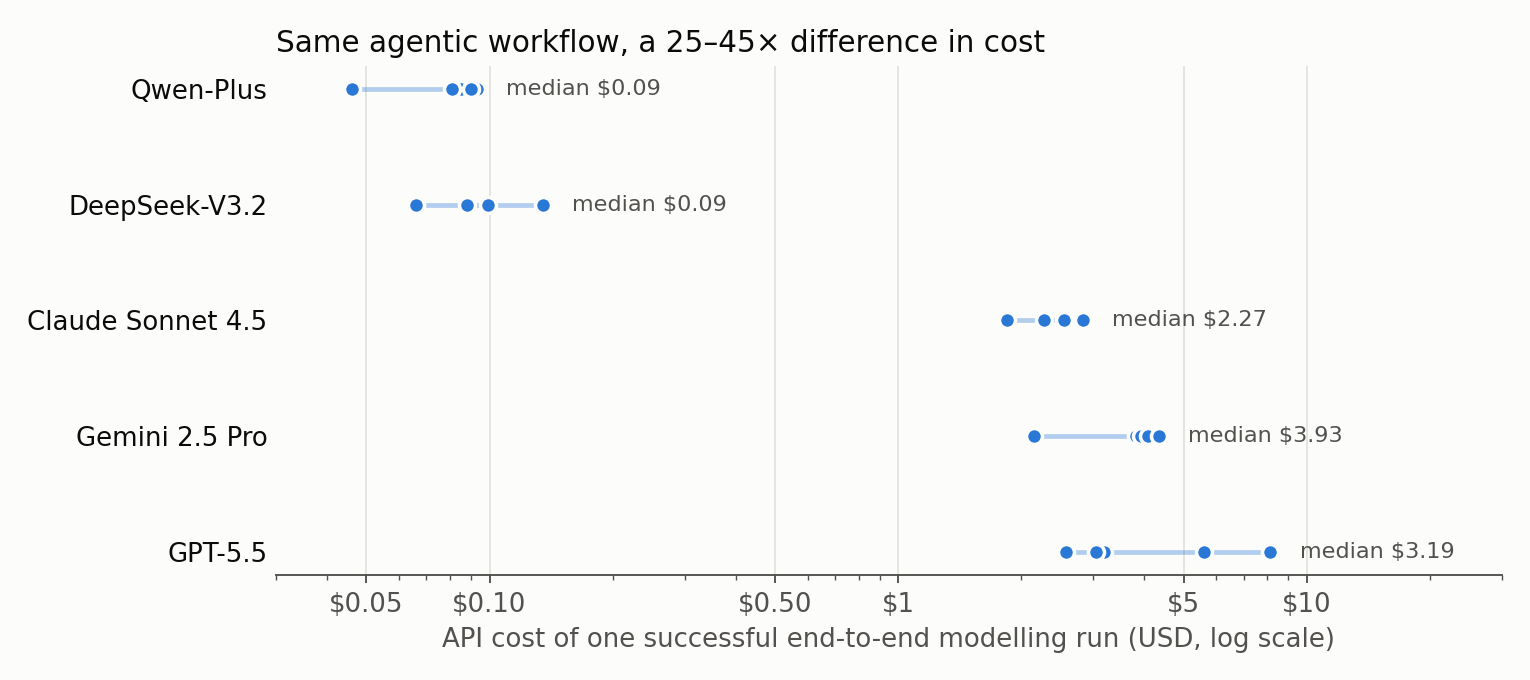
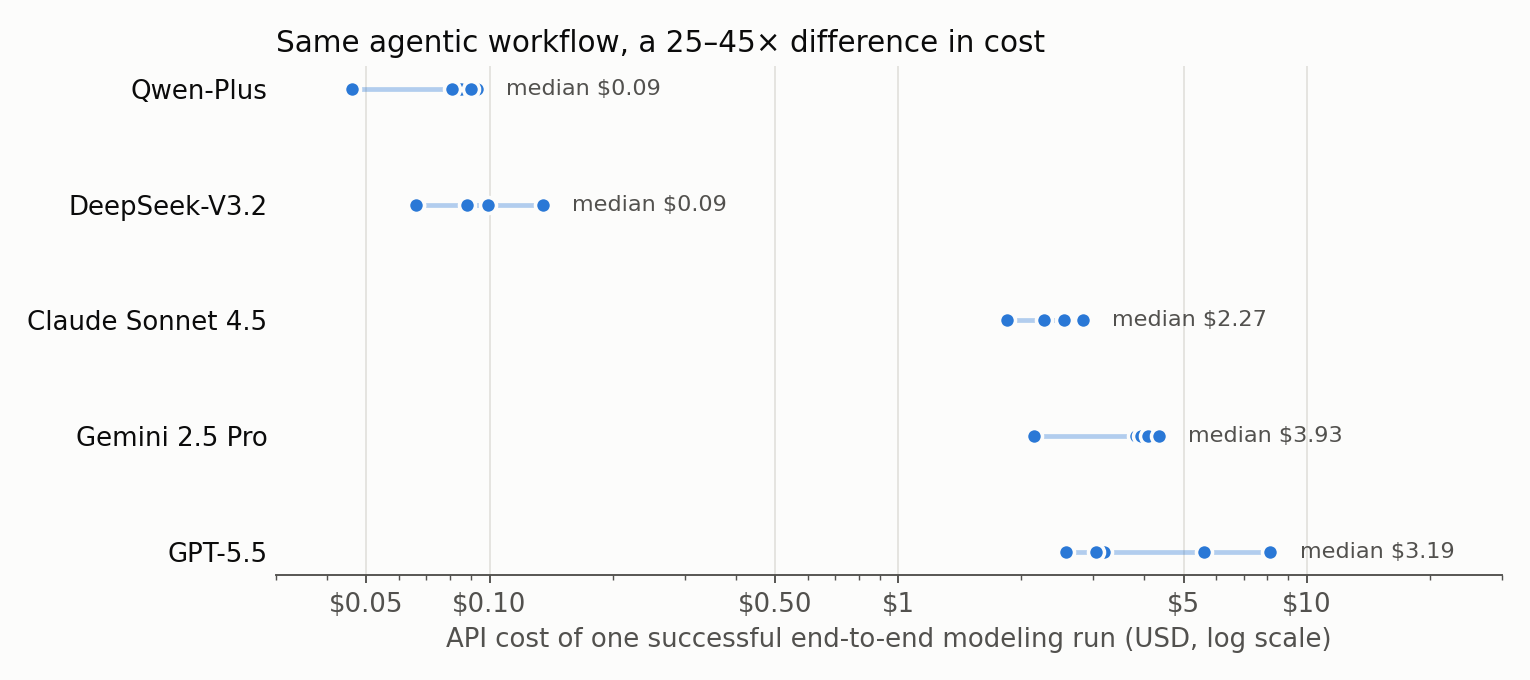
Blog: American spelling and no space before °C in all posts

Changed region(s): [[0.2765, 0.9265, 0.8908, 0.9574]]

diff --git a/scripts/blog/2026-10-19-amoc-rate.py b/scripts/blog/2026-10-19-amoc-rate.py
@@ -17,7 +17,7 @@ fig, ax = plt.subplots(figsize=(9, 5), facecolor=surf); ax.set_facecolor(surf)
 ax.plot([6.12, 6.12], [1.4, 8.0], color=ink2, lw=1.2)
 ax.scatter([6.12, 6.12], [1.4, 8.0], marker="_", s=90, color=ink2, linewidths=1.2)
 ax.scatter([6.12], [4.0], marker="_", s=260, color=ink2, linewidths=2.5, zorder=3)
-ax.text(6.0, 4.0, "commonly cited\nthreshold +4 °C\n(range 1.4–8 °C)", ha="right", va="center",
+ax.text(6.0, 4.0, "commonly cited\nthreshold +4°C\n(range 1.4–8°C)", ha="right", va="center",
         fontsize=9.5, color=ink2)
 
 # today's rate of CO2 rise
@@ -27,13 +27,13 @@ ax.text(2.68, 7.75, "today: +2.6 ppm/yr\n(Mauna Loa, 2015–2025)", fontsize=9.5
 # slow ramp: no collapse up to +5.5 C
 ax.annotate("", xy=(0.5, 5.6), xytext=(0.5, 0.15),
             arrowprops=dict(arrowstyle="-|>", color=blue, lw=3, mutation_scale=18))
-ax.text(0.68, 5.35, "+0.5 ppm/yr:\nAMOC stays strong\nup to +5.5 °C", color=blue, fontsize=10, va="top")
+ax.text(0.68, 5.35, "+0.5 ppm/yr:\nAMOC stays strong\nup to +5.5°C", color=blue, fontsize=10, va="top")
 
 # fast ramps: collapse onset at about +2 C
 for x, y in [(2.5, 2.02), (5.0, 1.99)]:
     ax.plot([x, x], [0.15, y], color=orange, lw=3, solid_capstyle="butt")
     ax.scatter([x], [y], marker="X", s=150, color=orange, edgecolor=surf, linewidth=1.2, zorder=4)
-ax.text(3.55, 2.55, "+2.5 and +5.0 ppm/yr:\ncollapse begins at about +2 °C", color=orange,
+ax.text(3.55, 2.55, "+2.5 and +5.0 ppm/yr:\ncollapse begins at about +2°C", color=orange,
         fontsize=10, ha="center")
 
 ax.set_xlim(0, 6.6); ax.set_ylim(0, 8.3)

diff --git a/scripts/blog/2026-10-18-agent-cost.py b/scripts/blog/2026-10-18-agent-cost.py
@@ -5,7 +5,7 @@
 import os, numpy as np, matplotlib
 matplotlib.use("Agg")
 import matplotlib.pyplot as plt
-cost = {  # USD per successful end-to-end modelling run (5 task groups)
+cost = {  # USD per successful end-to-end modeling run (5 task groups)
  "Qwen-Plus":         [0.085, 0.081, 0.093, 0.046, 0.090],
  "DeepSeek-V3.2":     [0.099, 0.066, 0.088, 0.066, 0.135],
  "Claude Sonnet 4.5": [1.821, 2.833, 1.842, 2.269, 2.550],
@@ -29,7 +29,7 @@ ax.set_yticks(range(len(names))); ax.set_yticklabels(names[::-1])
 ax.grid(axis="x", color=grid, lw=0.8); ax.set_axisbelow(True)
 for sp in ("top", "right", "left"): ax.spines[sp].set_visible(False)
 ax.tick_params(axis="y", length=0)
-ax.set_xlabel("API cost of one successful end-to-end modelling run (USD, log scale)", color=ink2)
+ax.set_xlabel("API cost of one successful end-to-end modeling run (USD, log scale)", color=ink2)
 ax.set_title("Same agentic workflow, a 25–45× difference in cost", loc="left", color=ink, fontsize=12.5)
 fig.tight_layout()
 os.makedirs("assets/img/blog", exist_ok=True)

diff --git a/scripts/blog/2026-10-19-amoc-timescales.py b/scripts/blog/2026-10-19-amoc-timescales.py
@@ -52,10 +52,10 @@ ax.text(2101, ys[1], "2057 (90% range 2025–2095), disputed because of data unc
         va="center", fontsize=9.5, color=ink2, bbox=BOX)
 
 collapse(ys[2], 2060, orange)
-ax.text(2062, ys[2] + 0.36, "onset ≈2060 at +2.8 °C → decline over ~a century → weak for centuries",
+ax.text(2062, ys[2] + 0.36, "onset ≈2060 at +2.8°C → decline over ~a century → weak for centuries",
         fontsize=9.3, color=orange, bbox=BOX)
 collapse(ys[3], 2110, orange)
-ax.text(2112, ys[3] + 0.36, "onset ≈2110 at +2.2 °C → weak to 2500 and beyond",
+ax.text(2112, ys[3] + 0.36, "onset ≈2110 at +2.2°C → weak to 2500 and beyond",
         fontsize=9.3, color=orange, bbox=BOX)
 bar(ys[4], 2006, 2500, green, alpha=0.45)
 ax.text(2112, ys[4] + 0.36, "weakens, then recovers", fontsize=9.3, color=green, bbox=BOX)

diff --git a/scripts/blog/2026-10-19-choice-odds.py b/scripts/blog/2026-10-19-choice-odds.py
@@ -2,7 +2,7 @@
 # Data: odds ratios (95% confidence intervals) for choosing the pro-climate option, as reported in the
 # Results of Wyss, Guizar Rosales et al. (2026), Nature Climate Change, doi:10.1038/s41558-026-02765-z.
 # Rows 1-5 come from the models that add subjective attribution (Supplementary Table 17 of the paper;
-# attribution is mean-centred, so the exposure term is its effect at average attribution).
+# attribution is mean-centered, so the exposure term is its effect at average attribution).
 # Row 6 comes from a separate exploratory model with self-reported experience. Plotted by Daeha Kim.
 # Run from the repository root: python scripts/blog/2026-10-19-choice-odds.py
 import os, matplotlib

diff --git a/_posts/2026-10-19-amoc-diagnosis.md b/_posts/2026-10-19-amoc-diagnosis.md
@@ -8,13 +8,13 @@ categories: paper-highlights
 related_posts: false
 ---
 
-Every few months, a headline warns that the Gulf Stream is about to "shut down." Many readers picture the film _The Day After Tomorrow_, where New York freezes in a week. The real science is less cinematic but no less serious. Two recent papers from the Utrecht group of Henk Dijkstra and René van Westen give a good picture of where things stand. The first is a review of how likely a collapse is this century (Dijkstra & van Westen 2026). The second is a new modelling study showing that the _speed_ of warming may matter more than its final level (van Westen, Börner & Dijkstra 2026).
+Every few months, a headline warns that the Gulf Stream is about to "shut down." Many readers picture the film _The Day After Tomorrow_, where New York freezes in a week. The real science is less cinematic but no less serious. Two recent papers from the Utrecht group of Henk Dijkstra and René van Westen give a good picture of where things stand. The first is a review of how likely a collapse is this century (Dijkstra & van Westen 2026). The second is a new modeling study showing that the _speed_ of warming may matter more than its final level (van Westen, Börner & Dijkstra 2026).
 
 In this post I read the two papers as a diagnosis: what we know about the patient now, what could go wrong, and above all **how fast**. When students ask me about this topic, the question behind the question is usually: _is this something sudden, or something people would only feel slowly over a long time?_ The short answer is that it is both, on different clocks. The rest of this post explains what that means.
 
 ## What the AMOC is, and why a hydrologist should care
 
-The Atlantic Meridional Overturning Circulation (AMOC) is the large loop of the Atlantic Ocean in which warm, salty surface water flows north, gives up its heat to the atmosphere, becomes dense enough to sink in the northern North Atlantic, and returns south at depth. Its strength is measured in sverdrups (1 Sv = one million cubic metres per second). At about 17 Sv, it moves roughly fifteen times the combined discharge of all the world's rivers. At 26°N it carries about 1.5 petawatts of heat northward, which is a large part of the reason north-western Europe is so mild for its latitude.
+The Atlantic Meridional Overturning Circulation (AMOC) is the large loop of the Atlantic Ocean in which warm, salty surface water flows north, gives up its heat to the atmosphere, becomes dense enough to sink in the northern North Atlantic, and returns south at depth. Its strength is measured in sverdrups (1 Sv = one million cubic meters per second). At about 17 Sv, it moves roughly fifteen times the combined discharge of all the world's rivers. At 26°N it carries about 1.5 petawatts of heat northward, which is a large part of the reason north-western Europe is so mild for its latitude.
 
 The reason the AMOC can "tip" is a feedback any water engineer will recognize as a positive feedback loop. The overturning brings salt north. If the northern Atlantic becomes fresher (from more rain, river runoff, sea-ice melt or Greenland meltwater), the surface water becomes lighter, sinks less, and the weaker circulation delivers less salt. This freshens the surface further. Beyond a critical point, the loop can run away and the circulation settles into a much weaker state. Physicists call this the _salt-advection feedback_, and it is why the AMOC can have two stable states rather than one.
 
@@ -43,30 +43,30 @@ The review makes one more point that engineers will appreciate: because the impa
 
 ## Diagnosis 3: it is the speed, not only the level
 
-The commonly cited warming threshold for an AMOC collapse is about +4 °C, with a range of 1.4–8 °C. The new _Nature Climate Change_ paper argues that this number may not mean much, because the AMOC's stability depends on **how fast** the climate is forced, not on a fixed temperature.
+The commonly cited warming threshold for an AMOC collapse is about +4°C, with a range of 1.4–8°C. The new _Nature Climate Change_ paper argues that this number may not mean much, because the AMOC's stability depends on **how fast** the climate is forced, not on a fixed temperature.
 
 The authors increased CO₂ in the CESM linearly at three rates, all the way to four times the pre-industrial level:
 
-- at **+0.5 ppm per year**, the AMOC stayed strong even when global warming reached **+5.5 °C**;
-- at **+2.5 and +5.0 ppm per year**, it began to collapse at about **+2.0 °C**.
+- at **+0.5 ppm per year**, the AMOC stayed strong even when global warming reached **+5.5°C**;
+- at **+2.5 and +5.0 ppm per year**, it began to collapse at about **+2.0°C**.
 
 For comparison, CO₂ at Mauna Loa rose by about **+2.6 ppm per year** on average in 2015–2025. In this model, today's rate falls on the wrong side of the line.
 
 ![CO2 ramp rate versus warming at AMOC collapse onset in CESM](/assets/img/blog/2026-10-19-amoc-rate.png){: style="width: 100%; height: auto;" data-zoomable="" }
 
-_**Figure 1.** Global warming at which the AMOC began to collapse in three CO₂-ramp experiments with one climate model (CESM, with a freshwater bias correction of 0.45 Sv). Under the slowest ramp the AMOC did not collapse, even at +5.5 °C. The dashed line marks the observed rate of CO₂ increase. The bar on the right is the commonly cited warming threshold and its range. Figure by Daeha Kim, drawn from numbers reported in van Westen, Börner & Dijkstra (2026)._
+_**Figure 1.** Global warming at which the AMOC began to collapse in three CO₂-ramp experiments with one climate model (CESM, with a freshwater bias correction of 0.45 Sv). Under the slowest ramp the AMOC did not collapse, even at +5.5°C. The dashed line marks the observed rate of CO₂ increase. The bar on the right is the commonly cited warming threshold and its range. Figure by Daeha Kim, drawn from numbers reported in van Westen, Börner & Dijkstra (2026)._
 
 Why should the rate matter? When the forcing is slow, the deep ocean has time to adjust together with the surface. In a warmer climate, evaporation over the Atlantic increases and there is less North Atlantic sea ice, so less meltwater is released into the sinking region. Both effects make the Atlantic saltier and help keep the circulation going. When the forcing is fast, the surface water becomes lighter much faster than the interior can follow, the pathways by which water sinks shut down, and the circulation collapses before these stabilizing effects can act.
 
 Hydrologists know this logic well. The same storm total can produce no runoff when it falls as gentle rain over a week, and a flood when it falls in an hour, because infiltration cannot keep up. It is the intensity, not only the depth, that decides.
 
-The same model under standard emission scenarios tells a consistent story. Under a low-emission pathway (RCP2.6) the AMOC weakens and then recovers. Under moderate emissions (RCP4.5) collapse begins around 2110, at +2.2 °C. Under high emissions (RCP8.5) it begins around 2060, at +2.8 °C. The authors combine these results with CMIP6 analyses and estimate a critical warming rate of about **0.29 °C per decade**. This lies within the 0.27–0.36 °C per decade projected for the coming decades. Their conclusion is direct: cutting emissions **quickly** is what reduces the risk.
+The same model under standard emission scenarios tells a consistent story. Under a low-emission pathway (RCP2.6) the AMOC weakens and then recovers. Under moderate emissions (RCP4.5) collapse begins around 2110, at +2.2°C. Under high emissions (RCP8.5) it begins around 2060, at +2.8°C. The authors combine these results with CMIP6 analyses and estimate a critical warming rate of about **0.29°C per decade**. This lies within the 0.27–0.36°C per decade projected for the coming decades. Their conclusion is direct: cutting emissions **quickly** is what reduces the risk.
 
 ## What a collapse would do
 
 The cleanest way to study the impacts is to collapse the AMOC in a model run without global warming, so that the AMOC signal is not mixed with everything else. In the CESM, the results include:
 
-- **North-western Europe gets much colder.** Sea-surface temperatures near western Europe drop by as much as 10 °C. Over a broad region, annual-mean air temperature falls by **more than 1 °C per decade**, and several European cities cool by 5–15 °C. Arctic sea ice in March extends as far south as about 50°N, and the extra ice reflects more sunlight, amplifying the cooling.
+- **North-western Europe gets much colder.** Sea-surface temperatures near western Europe drop by as much as 10°C. Over a broad region, annual-mean air temperature falls by **more than 1°C per decade**, and several European cities cool by 5–15°C. Arctic sea ice in March extends as far south as about 50°N, and the extra ice reflects more sunlight, amplifying the cooling.
 - **The Southern Hemisphere warms.** Less heat is carried north, so the two hemispheres move in opposite directions (the "bipolar seesaw").
 - **Sea level rises along Atlantic coasts.** A weaker circulation changes the slope of the sea surface, and some coastal regions see more than **70 cm** of additional dynamic sea-level rise, on top of the global rise from warming.
 - **Tropical rain belts shift south.** The Intertropical Convergence Zone (ITCZ) moves southward and the Northern Hemisphere Hadley cell strengthens. In the Amazon, the dry season and the wet season trade places.
@@ -81,21 +81,21 @@ Here is my answer to the students' question. An AMOC collapse runs on three cloc
 
 ![Timescales of a possible AMOC collapse](/assets/img/blog/2026-10-19-amoc-timescales.png){: style="width: 100%; height: auto;" data-zoomable="" }
 
-_**Figure 2.** Timescales involved in a possible AMOC collapse. The grey rows show the short observational record and a contested statistical estimate of collapse onset. The coloured rows show one climate model (CESM, bias-corrected) under three emission scenarios: triangles mark collapse onset, the fading bars show the decline over about a century, and the solid bars show the persistent weak state. This is a schematic of published numbers, not a forecast. Figure by Daeha Kim, based on Dijkstra & van Westen (2026), van Westen, Börner & Dijkstra (2026) and Ditlevsen & Ditlevsen (2023)._
+_**Figure 2.** Timescales involved in a possible AMOC collapse. The gray rows show the short observational record and a contested statistical estimate of collapse onset. The colored rows show one climate model (CESM, bias-corrected) under three emission scenarios: triangles mark collapse onset, the fading bars show the decline over about a century, and the solid bars show the persistent weak state. This is a schematic of published numbers, not a forecast. Figure by Daeha Kim, based on Dijkstra & van Westen (2026), van Westen, Börner & Dijkstra (2026) and Ditlevsen & Ditlevsen (2023)._
 
-**Clock 1: the trigger (now to the next few decades).** Whether a collapse starts is decided by what we emit, and how fast, over the next few decades. In the one model that has been pushed hardest, onset comes in the second half of this century or early next. The IPCC considers an abrupt collapse before 2100 unlikely, but that judgement rests on models that are probably too stable. Nobody can yet give a reliable probability.
+**Clock 1: the trigger (now to the next few decades).** Whether a collapse starts is decided by what we emit, and how fast, over the next few decades. In the one model that has been pushed hardest, onset comes in the second half of this century or early next. The IPCC considers an abrupt collapse before 2100 unlikely, but that judgment rests on models that are probably too stable. Nobody can yet give a reliable probability.
 
-**Clock 2: the fall (about a century).** Once a collapse begins, the circulation declines over roughly **a hundred years**. That rules out the _Day After Tomorrow_ picture. Nothing freezes overnight, and from one year to the next the change would be smaller than ordinary weather variability. Yet by the standards of climate it is fast. A cooling trend of more than 1 °C per decade in north-western Europe is about four times faster than today's global warming, and in the opposite direction. People would not feel a shock, but over a working career they would see a clear trend, much as we see global warming today. A child born this year could live through most of the decline.
+**Clock 2: the fall (about a century).** Once a collapse begins, the circulation declines over roughly **a hundred years**. That rules out the _Day After Tomorrow_ picture. Nothing freezes overnight, and from one year to the next the change would be smaller than ordinary weather variability. Yet by the standards of climate it is fast. A cooling trend of more than 1°C per decade in north-western Europe is about four times faster than today's global warming, and in the opposite direction. People would not feel a shock, but over a working career they would see a clear trend, much as we see global warming today. A child born this year could live through most of the decline.
 
 **Clock 3: the memory (centuries).** A collapsed AMOC does not come back when emissions stop. In the CESM runs, the AMOC is still very weak in 2500, and the authors note that even if it eventually recovered, its impacts would last for at least about 300 years. Conceptual models suggest an asymmetry: a collapse can be set off relatively quickly, but recovery needs the North Atlantic to be slowly made saltier again. On any human timescale, a collapse would be permanent.
 
-There is one more, uncomfortable timing problem. Because the direct record is short and natural variability is large, we would probably recognize a collapse only after it was well under way, and by then it would already be locked in. The decision has to be made before the evidence is conclusive. It is the same lesson as in [my earlier post on overshooting 1.5 °C]({% post_url 2026-10-17-approaching-1p5-from-above %}): the consequences arrive long after the causes, so waiting for certainty is itself a choice.
+There is one more, uncomfortable timing problem. Because the direct record is short and natural variability is large, we would probably recognize a collapse only after it was well under way, and by then it would already be locked in. The decision has to be made before the evidence is conclusive. It is the same lesson as in [my earlier post on overshooting 1.5°C]({% post_url 2026-10-17-approaching-1p5-from-above %}): the consequences arrive long after the causes, so waiting for certainty is itself a choice.
 
 ## Bottom line
 
 - **Current state:** the AMOC is about 17 Sv, with no clear sign that a collapse has begun, but only about 20 years of direct data and conflicting indirect evidence.
 - **Risk:** probably underestimated, because the models used by the IPCC tend to make the AMOC too stable. No reliable probability exists, and even small probabilities matter.
-- **Main control:** the _rate_ of warming. In one model, the current rate of CO₂ increase is fast enough to cause a collapse at about +2 °C, while a much slower rise does not cause one even at +5.5 °C.
+- **Main control:** the _rate_ of warming. In one model, the current rate of CO₂ increase is fast enough to cause a collapse at about +2°C, while a much slower rise does not cause one even at +5.5°C.
 - **Timescale:** decades to the trigger, about a century to fall, centuries to recover. A collapse would be gradual enough to feel like a trend, fast enough to outrun adaptation, and lasting enough to be permanent for us.
 
 **Questions to think about**
@@ -106,7 +106,7 @@ There is one more, uncomfortable timing problem. Because the direct record is sh
 
 ---
 
-**한 줄 요약 (Korean summary).** 대서양 자오선 순환(AMOC)은 현재 약 17 Sv로, 붕괴가 시작되었다는 뚜렷한 관측 증거는 없지만 직접 관측 기록은 20년 남짓에 불과하다. IPCC는 2100년 이전의 급격한 붕괴 가능성을 낮게 보지만, 기후모델들은 AMOC를 실제보다 안정적으로 모의하는 경향이 있어 위험이 과소평가되었을 가능성이 크다. 최신 연구에 따르면 붕괴 여부는 도달하는 온도보다 온난화 속도에 좌우된다: 한 모델에서 CO₂가 연 0.5 ppm씩 오르면 +5.5 °C에서도 버텼지만, 연 2.5 ppm 이상(현재는 연 2.6 ppm)에서는 약 +2 °C에서 붕괴가 시작되었다. 붕괴하면 북서유럽이 10년에 1 °C 이상 냉각되고, 대서양 연안 해수면이 최대 70 cm 이상 추가로 오르며, 열대 강우대가 남쪽으로 이동해 아마존의 건기와 우기가 뒤바뀐다. 시간 규모로 보면 붕괴가 시작될지는 향후 수십 년의 배출이 결정하고, 붕괴 자체는 약 100년에 걸쳐 진행되며(하룻밤에 일어나는 일은 아니지만 한 사람의 일생 동안 분명히 느낄 만큼 빠르다), 그 영향은 수백 년간 지속된다. 관측으로 확인될 즈음에는 이미 되돌리기 어려울 가능성이 크므로, 확실한 증거를 기다리기보다 배출을 빨리 줄이는 것이 핵심이다.
+**한 줄 요약 (Korean summary).** 대서양 자오선 순환(AMOC)은 현재 약 17 Sv로, 붕괴가 시작되었다는 뚜렷한 관측 증거는 없지만 직접 관측 기록은 20년 남짓에 불과하다. IPCC는 2100년 이전의 급격한 붕괴 가능성을 낮게 보지만, 기후모델들은 AMOC를 실제보다 안정적으로 모의하는 경향이 있어 위험이 과소평가되었을 가능성이 크다. 최신 연구에 따르면 붕괴 여부는 도달하는 온도보다 온난화 속도에 좌우된다: 한 모델에서 CO₂가 연 0.5 ppm씩 오르면 +5.5°C에서도 버텼지만, 연 2.5 ppm 이상(현재는 연 2.6 ppm)에서는 약 +2°C에서 붕괴가 시작되었다. 붕괴하면 북서유럽이 10년에 1°C 이상 냉각되고, 대서양 연안 해수면이 최대 70 cm 이상 추가로 오르며, 열대 강우대가 남쪽으로 이동해 아마존의 건기와 우기가 뒤바뀐다. 시간 규모로 보면 붕괴가 시작될지는 향후 수십 년의 배출이 결정하고, 붕괴 자체는 약 100년에 걸쳐 진행되며(하룻밤에 일어나는 일은 아니지만 한 사람의 일생 동안 분명히 느낄 만큼 빠르다), 그 영향은 수백 년간 지속된다. 관측으로 확인될 즈음에는 이미 되돌리기 어려울 가능성이 크므로, 확실한 증거를 기다리기보다 배출을 빨리 줄이는 것이 핵심이다.
 
 ---
 

diff --git a/_posts/2026-10-18-from-chatbot-to-coworker.md b/_posts/2026-10-18-from-chatbot-to-coworker.md
@@ -3,7 +3,7 @@ layout: post
 title: "From chatbot to coworker: three years of LLMs in hydrology"
 date: 2026-10-18 09:00:00
 description: "Re-reading a 2023 editorial on ChatGPT in hydrology next to two new papers and a book on AI: what LLMs could not do then, what agents can do now, and why most research has not switched yet."
-tags: llm ai-agents hydrologic-modelling calibration education
+tags: llm ai-agents hydrologic-modeling calibration education
 categories: notes
 related_posts: false
 ---
@@ -32,7 +32,7 @@ The figure below summarizes how the role of the LLM has shifted across the three
 
 ![Three panels showing the role of the LLM in 2023 (writer), 2025 (decision-maker inside a calibration loop) and 2026 (orchestrator of an agentic workflow)](/assets/img/blog/2026-10-18-llm-roles.png){: style="width: 100%; height: auto;" data-zoomable="" }
 
-_**Figure 1.** How the role of the LLM changed across three studies. In 2023 the human did all the running and checking. In the GRL study, the LLM proposed parameters inside a loop built by the researchers. In the Journal of Hydrology study, agents planned, coded, ran and debugged entire modelling workflows within an expert-designed process. Original schematic by Daeha Kim, based on Foroumandi et al. (2023), Zhu et al. (2026) and Li et al. (2026)._
+_**Figure 1.** How the role of the LLM changed across three studies. In 2023 the human did all the running and checking. In the GRL study, the LLM proposed parameters inside a loop built by the researchers. In the Journal of Hydrology study, agents planned, coded, ran and debugged entire modeling workflows within an expert-designed process. Original schematic by Daeha Kim, based on Foroumandi et al. (2023), Zhu et al. (2026) and Li et al. (2026)._
 
 ## 2025: the LLM inside the calibration loop
 
@@ -46,13 +46,13 @@ Li et al. (2026, _Journal of Hydrology_), submitted in May 2026, used the next g
 
 Three findings stand out.
 
-- **It works most of the time.** Across 125 modelling tasks with five different LLMs, 92.8% of runs succeeded. On 531 CAMELS basins, the agent-built models reached a median NSE of 0.58 for basin-by-basin LSTMs (close to the 0.61 of the calibrated SAC-SMA benchmark) and 0.73 for a single LSTM trained on all basins, which is in line with published LSTM benchmarks.
+- **It works most of the time.** Across 125 modeling tasks with five different LLMs, 92.8% of runs succeeded. On 531 CAMELS basins, the agent-built models reached a median NSE of 0.58 for basin-by-basin LSTMs (close to the 0.61 of the calibrated SAC-SMA benchmark) and 0.73 for a single LSTM trained on all basins, which is in line with published LSTM benchmarks.
 - **Planning, not knowledge, is the bottleneck.** When the researchers removed the expert-designed workflow and let the agents organize the task themselves, the success rate fell to **0%**. Agents declared victory after one sub-step, looped on the same tool calls, or lost track of file paths after their context was summarized.
 - **Experts are still needed.** In one run, weak performance turned out to come from a data-loading error that withheld same-day weather inputs. When prompts pushed the agents toward "bigger" architectures, they switched to models that performed worse. Newer versions of some models also had to be used partway through the study, which makes exact reproduction harder.
 
 The cost appendix of the same paper makes the price competition concrete. A successful end-to-end run used between half a million and two million tokens, and the price of that run differed by a factor of 25 to 45 depending on the model, even though all five models completed the tasks at similar rates.
 
-![Dot plot of the API cost of one successful modelling run for five LLMs: about $0.09 for Qwen-Plus and DeepSeek-V3.2, and $2–4 for Claude Sonnet 4.5, GPT-5.5 and Gemini 2.5 Pro](/assets/img/blog/2026-10-18-agent-cost.png){: style="width: 100%; height: auto;" data-zoomable="" }
+![Dot plot of the API cost of one successful modeling run for five LLMs: about $0.09 for Qwen-Plus and DeepSeek-V3.2, and $2–4 for Claude Sonnet 4.5, GPT-5.5 and Gemini 2.5 Pro](/assets/img/blog/2026-10-18-agent-cost.png){: style="width: 100%; height: auto;" data-zoomable="" }
 
 _**Figure 2.** API cost of one representative successful run for each LLM and each of five task types. Data from Table A1 of Li et al. (2026); plotted by Daeha Kim. Costs reflect list prices at the time of the study and will change._
 
@@ -60,11 +60,11 @@ _**Figure 2.** API cost of one representative successful run for each LLM and ea
 
 Christopher Summerfield, a cognitive neuroscientist, wrote _These Strange New Minds_ in 2024. His closing chapter makes a few claims that are easy to check against what has happened since.
 
-He argued that LLMs are not minds like ours: they have no body, no friends and no motivation of their own, and so no built-in curiosity about the world. Nothing in the papers above contradicts that. In both studies, the question, the data, the success criterion and the judgement of what counts as physically plausible all came from people.
+He argued that LLMs are not minds like ours: they have no body, no friends and no motivation of their own, and so no built-in curiosity about the world. Nothing in the papers above contradicts that. In both studies, the question, the data, the success criterion and the judgment of what counts as physically plausible all came from people.
 
 He identified two engineering limits, short memory and weak long-term planning, and expected both to be solved soon. That has **partly** happened. Assistants now remember across conversations and agents routinely complete multi-step tasks. But the 0% result without an expert workflow shows that open-ended, long-horizon scientific work still breaks down unless someone gives the agent a structure to follow.
 
-He predicted that we would drift gradually toward AI that acts rather than merely answers, starting with simple, well-defined tasks. That is exactly the path we have seen. Software was first, because code can be run and tested automatically. Scientific modelling, with its many judgement calls, is following more slowly.
+He predicted that we would drift gradually toward AI that acts rather than merely answers, starting with simple, well-defined tasks. That is exactly the path we have seen. Software was first, because code can be run and tested automatically. Scientific modeling, with its many judgment calls, is following more slowly.
 
 He also cited early evidence that AI help lifts the least-skilled workers the most and could act as a leveller. In research, the early picture points the other way. In a 2026 survey of 1,260 social scientists, 81% had used AI chatbots for research, but only 20% used coding agents weekly. Use was concentrated among economists, doctoral students and researchers at top universities. That sample was self-selected, so the true share is probably lower, and I know of no equivalent survey for hydrology. My impression matches it: agentic workflows are still rare in our field.
 
@@ -92,7 +92,7 @@ The 2023 editorial ended with the advice to use AI as a tool for problem-solving
 **Questions to think about**
 
 1. The GRL study accepted parameter sets based on NSE alone. What could go wrong if an agent optimizes only one metric for you?
-2. Why might an agent that cannot plan on its own still succeed when given an expert workflow? What does that suggest about the value of writing down your own modelling procedures?
+2. Why might an agent that cannot plan on its own still succeed when given an expert workflow? What does that suggest about the value of writing down your own modeling procedures?
 3. If a cheap model and an expensive model both succeed 90% of the time, what else would you want to know before choosing one for a 500-basin study?
 
 ---

diff --git a/_posts/2026-10-19-weather-and-climate-action.md b/_posts/2026-10-19-weather-and-climate-action.md
@@ -57,7 +57,7 @@ Figure 2 summarizes the choice results. Party and attribution push toward the lo
 
 ## What I take from it as a hydrologist
 
-**A gauge record is not an experience.** In hydrology we describe a flood by its peak discharge and its return period. Those numbers are what our infrastructure is designed for, and they are the right numbers for that purpose. But people do not experience a 100-year flood; they experience a flooded street, a closed road, or a news report, and they file it under an explanation they already hold. This study is a reminder that the hazard we measure and the experience that shapes behaviour are different quantities. The link between them runs through interpretation.
+**A gauge record is not an experience.** In hydrology we describe a flood by its peak discharge and its return period. Those numbers are what our infrastructure is designed for, and they are the right numbers for that purpose. But people do not experience a 100-year flood; they experience a flooded street, a closed road, or a news report, and they file it under an explanation they already hold. This study is a reminder that the hazard we measure and the experience that shapes behavior are different quantities. The link between them runs through interpretation.
 
 **Event attribution is part of the service, not an extra.** Climate science can now say, within days of an event, how much more likely or intense climate change made it. This study, together with earlier work, suggests that this kind of information is where the leverage lies. In the United Kingdom, flood experience predicted support for mitigation only among people who attributed the floods to climate change (Ogunbode et al. 2019). In California, wildfire exposure increased pro-environment voting only in Democratic areas (Hazlett & Mildenberger 2020). A survey of nearly 72,000 people in 68 countries found the same pattern: attributing extreme weather to climate change was linked to support for climate policy, while exposure to most types of extreme weather was not (Cologna et al. 2025). For those of us who provide climate services, for example drought information for farmers, explaining **why** an event happened may be as important as reporting **that** it happened.
 
@@ -68,8 +68,8 @@ Figure 2 summarizes the choice results. Party and attribution push toward the lo
 The study is careful, but its scope is narrow.
 
 - **One country, two parties.** US politics is unusually polarized on climate. Independents were asked which party they lean toward and classified accordingly. The results may not carry over to Korea or Europe, where views on climate may be less tied to party identity.
-- **Small stakes.** Each choice involved cents and a few kilograms of CO₂. That is far from the decisions that matter most, such as buying a car, voting, or supporting a flood-defence levy.
-- **Attribution was measured, not manipulated.** The study shows that attribution is associated with attention and choice; it does not show that changing someone's attribution would change their behaviour.
+- **Small stakes.** Each choice involved cents and a few kilograms of CO₂. That is far from the decisions that matter most, such as buying a car, voting, or supporting a flood-defense levy.
+- **Attribution was measured, not manipulated.** The study shows that attribution is associated with attention and choice; it does not show that changing someone's attribution would change their behavior.
 - **County-level exposure is a proxy.** A storm recorded somewhere in a large county may never touch a given resident, which could dilute any real effect of exposure.
 - **About a quarter of the sample was excluded** under the pre-registered quality rules, although analyses with the full sample gave similar conclusions.
 

diff --git a/_posts/2026-10-17-approaching-1p5-from-above.md b/_posts/2026-10-17-approaching-1p5-from-above.md
@@ -47,13 +47,13 @@ The conclusion is that removal is needed _in addition to_ deep emission cuts, ne
 
 ## 4. Some damage does not reverse when the temperature does
 
-Bringing temperatures down helps, but the climate system has long memory. Glaciers could lose more than a quarter of their mass by 2100, and glacier loss will continue for centuries even if warming stabilizes. Sea level keeps rising long after the peak. Even so, a pathway that declines rather than stabilizing at a higher level could reduce sea-level rise by almost half a metre by 2300. Species extinctions and some ecosystem shifts, such as the loss of coral reefs, may not be undone at all. The report's message to decision-makers is that the legacy of the peak is inherited by every stage that follows.
+Bringing temperatures down helps, but the climate system has long memory. Glaciers could lose more than a quarter of their mass by 2100, and glacier loss will continue for centuries even if warming stabilizes. Sea level keeps rising long after the peak. Even so, a pathway that declines rather than stabilizing at a higher level could reduce sea-level rise by almost half a meter by 2300. Species extinctions and some ecosystem shifts, such as the loss of coral reefs, may not be undone at all. The report's message to decision-makers is that the legacy of the peak is inherited by every stage that follows.
 
 ## What this means for water
 
 Reading the report as a hydrologist, three points stand out.
 
-**Our design assumptions have a new shape.** Almost twenty years ago, Milly and colleagues argued that "stationarity is dead," meaning that we can no longer design water infrastructure as if the past climate will repeat. Overshoot adds a twist. The climate we design for is not just moving. It may rise, peak and then partly fall within the lifetime of a single dam, levee or water supply system. A reservoir rule curve or design flood that is right for the peak may be wrong for the decline. The report explicitly calls for infrastructure that favours robustness and safety margins over optimization, and for forward-looking stress tests instead of planning from the historical record.
+**Our design assumptions have a new shape.** Almost twenty years ago, Milly and colleagues argued that "stationarity is dead," meaning that we can no longer design water infrastructure as if the past climate will repeat. Overshoot adds a twist. The climate we design for is not just moving. It may rise, peak and then partly fall within the lifetime of a single dam, levee or water supply system. A reservoir rule curve or design flood that is right for the peak may be wrong for the decline. The report explicitly calls for infrastructure that favors robustness and safety margins over optimization, and for forward-looking stress tests instead of planning from the historical record.
 
 **Water availability can change non-linearly.** In glacier-fed basins, meltwater first rises as glaciers shrink, then falls as they disappear. A study cited in the report suggests that if temperatures decline after the peak and glaciers partly regrow, downstream runoff could drop further still, into what the authors call "trough water." For communities that rely on seasonal meltwater, the decline stage is not automatically a recovery.
 

diff --git a/_posts/2026-10-20-carbon-budget.md b/_posts/2026-10-20-carbon-budget.md
@@ -64,7 +64,7 @@ From January 2026, the remaining budgets for a 50% chance of staying below each 
 
 _**Figure 2.** Remaining CO₂ budgets from January 2026 for a 50% chance of limiting warming to 1.5, 1.7 and 2.0°C. The two lighter bars are two published estimates, each updated to 2026; the dark bar is their average, used in the Global Carbon Budget 2025. The top axis converts the budgets into years at the 2025 emission rate. The dashed line marks the cumulative emissions of a straight-line path from today to net zero in 2050. Figure by Daeha Kim, drawn from numbers reported in Friedlingstein et al. (2026b)._
 
-Three things are worth noting. First, the estimates differ a lot, especially for 1.5°C (90 versus 250 GtCO₂), mainly because of how the warming from other gases such as methane is modelled. In [an earlier post on overshoot]({% post_url 2026-10-17-approaching-1p5-from-above %}) I used a UNEP figure of 130 GtCO₂; it sits inside this range. Deng et al. (2025), using different starting points, go as far as to say that the 1.5°C budget may already be used up.
+Three things are worth noting. First, the estimates differ a lot, especially for 1.5°C (90 versus 250 GtCO₂), mainly because of how the warming from other gases such as methane is modeled. In [an earlier post on overshoot]({% post_url 2026-10-17-approaching-1p5-from-above %}) I used a UNEP figure of 130 GtCO₂; it sits inside this range. Deng et al. (2025), using different starting points, go as far as to say that the 1.5°C budget may already be used up.
 
 Second, at today's emission rate, warming increases by about 0.023°C every year, or about a quarter of a degree per decade. The budget does not tell us when 1.5°C will be crossed in a given year, but it does tell us how fast the long-term level is rising.
 
